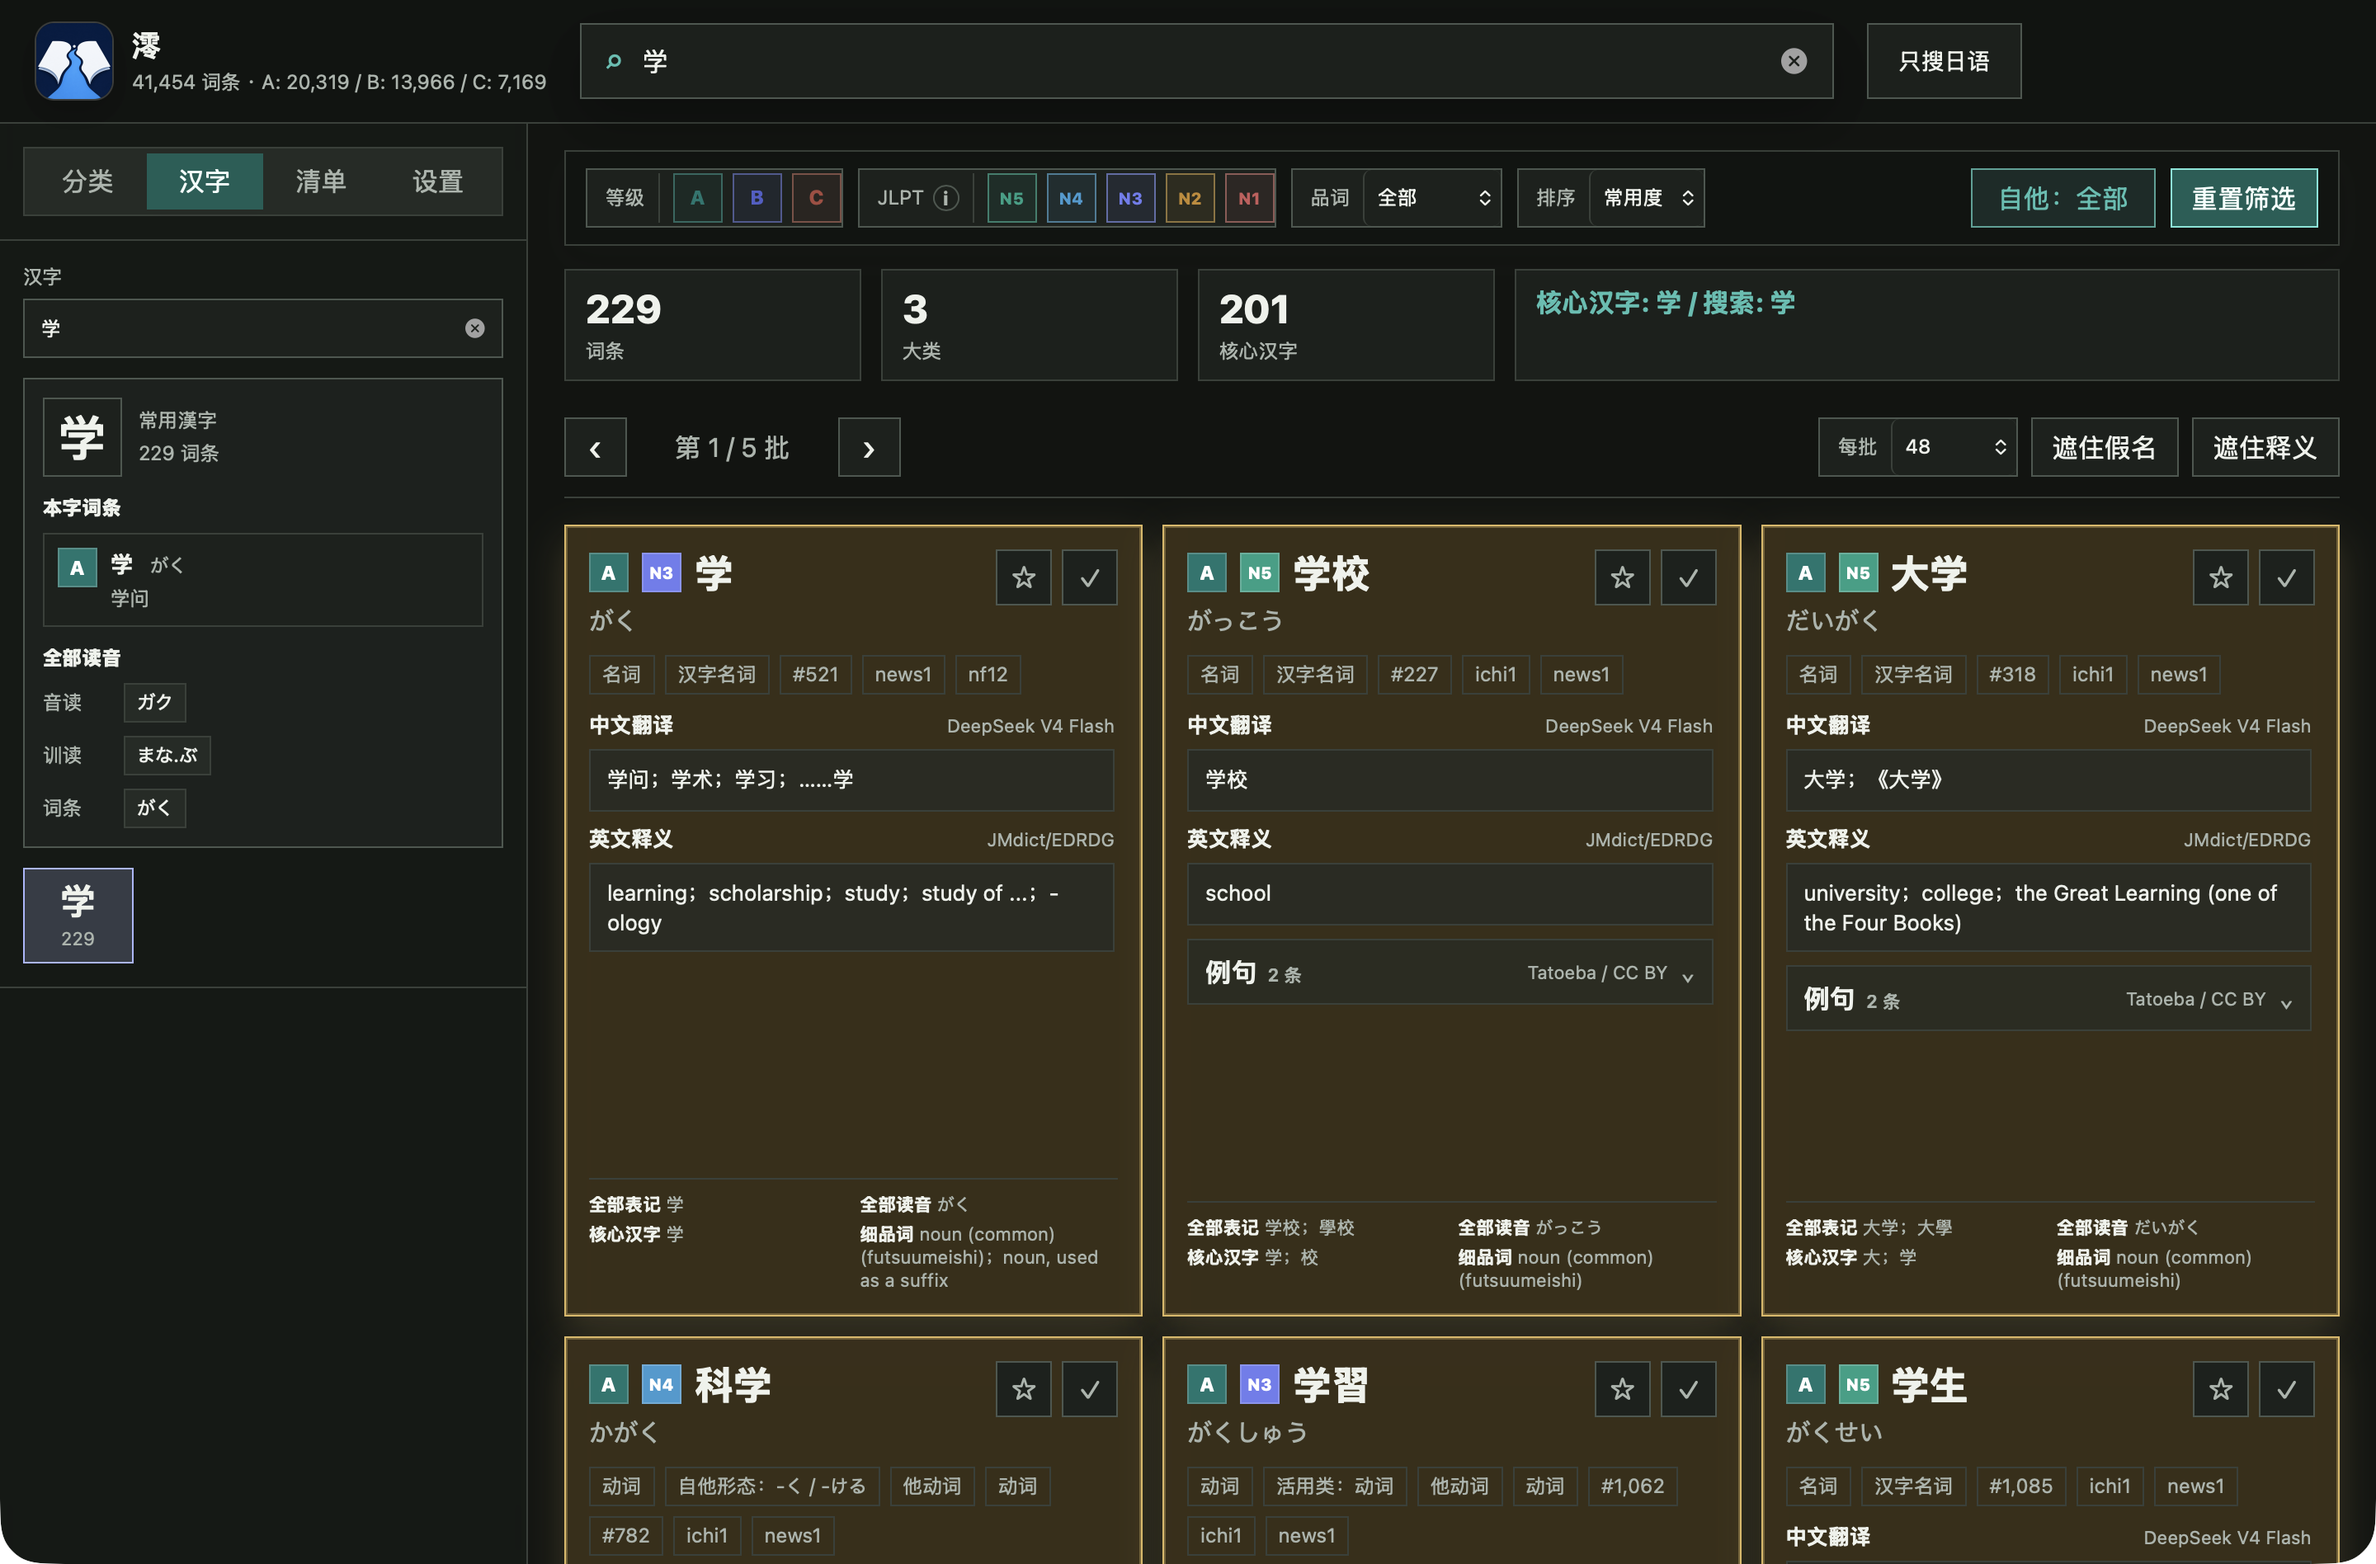
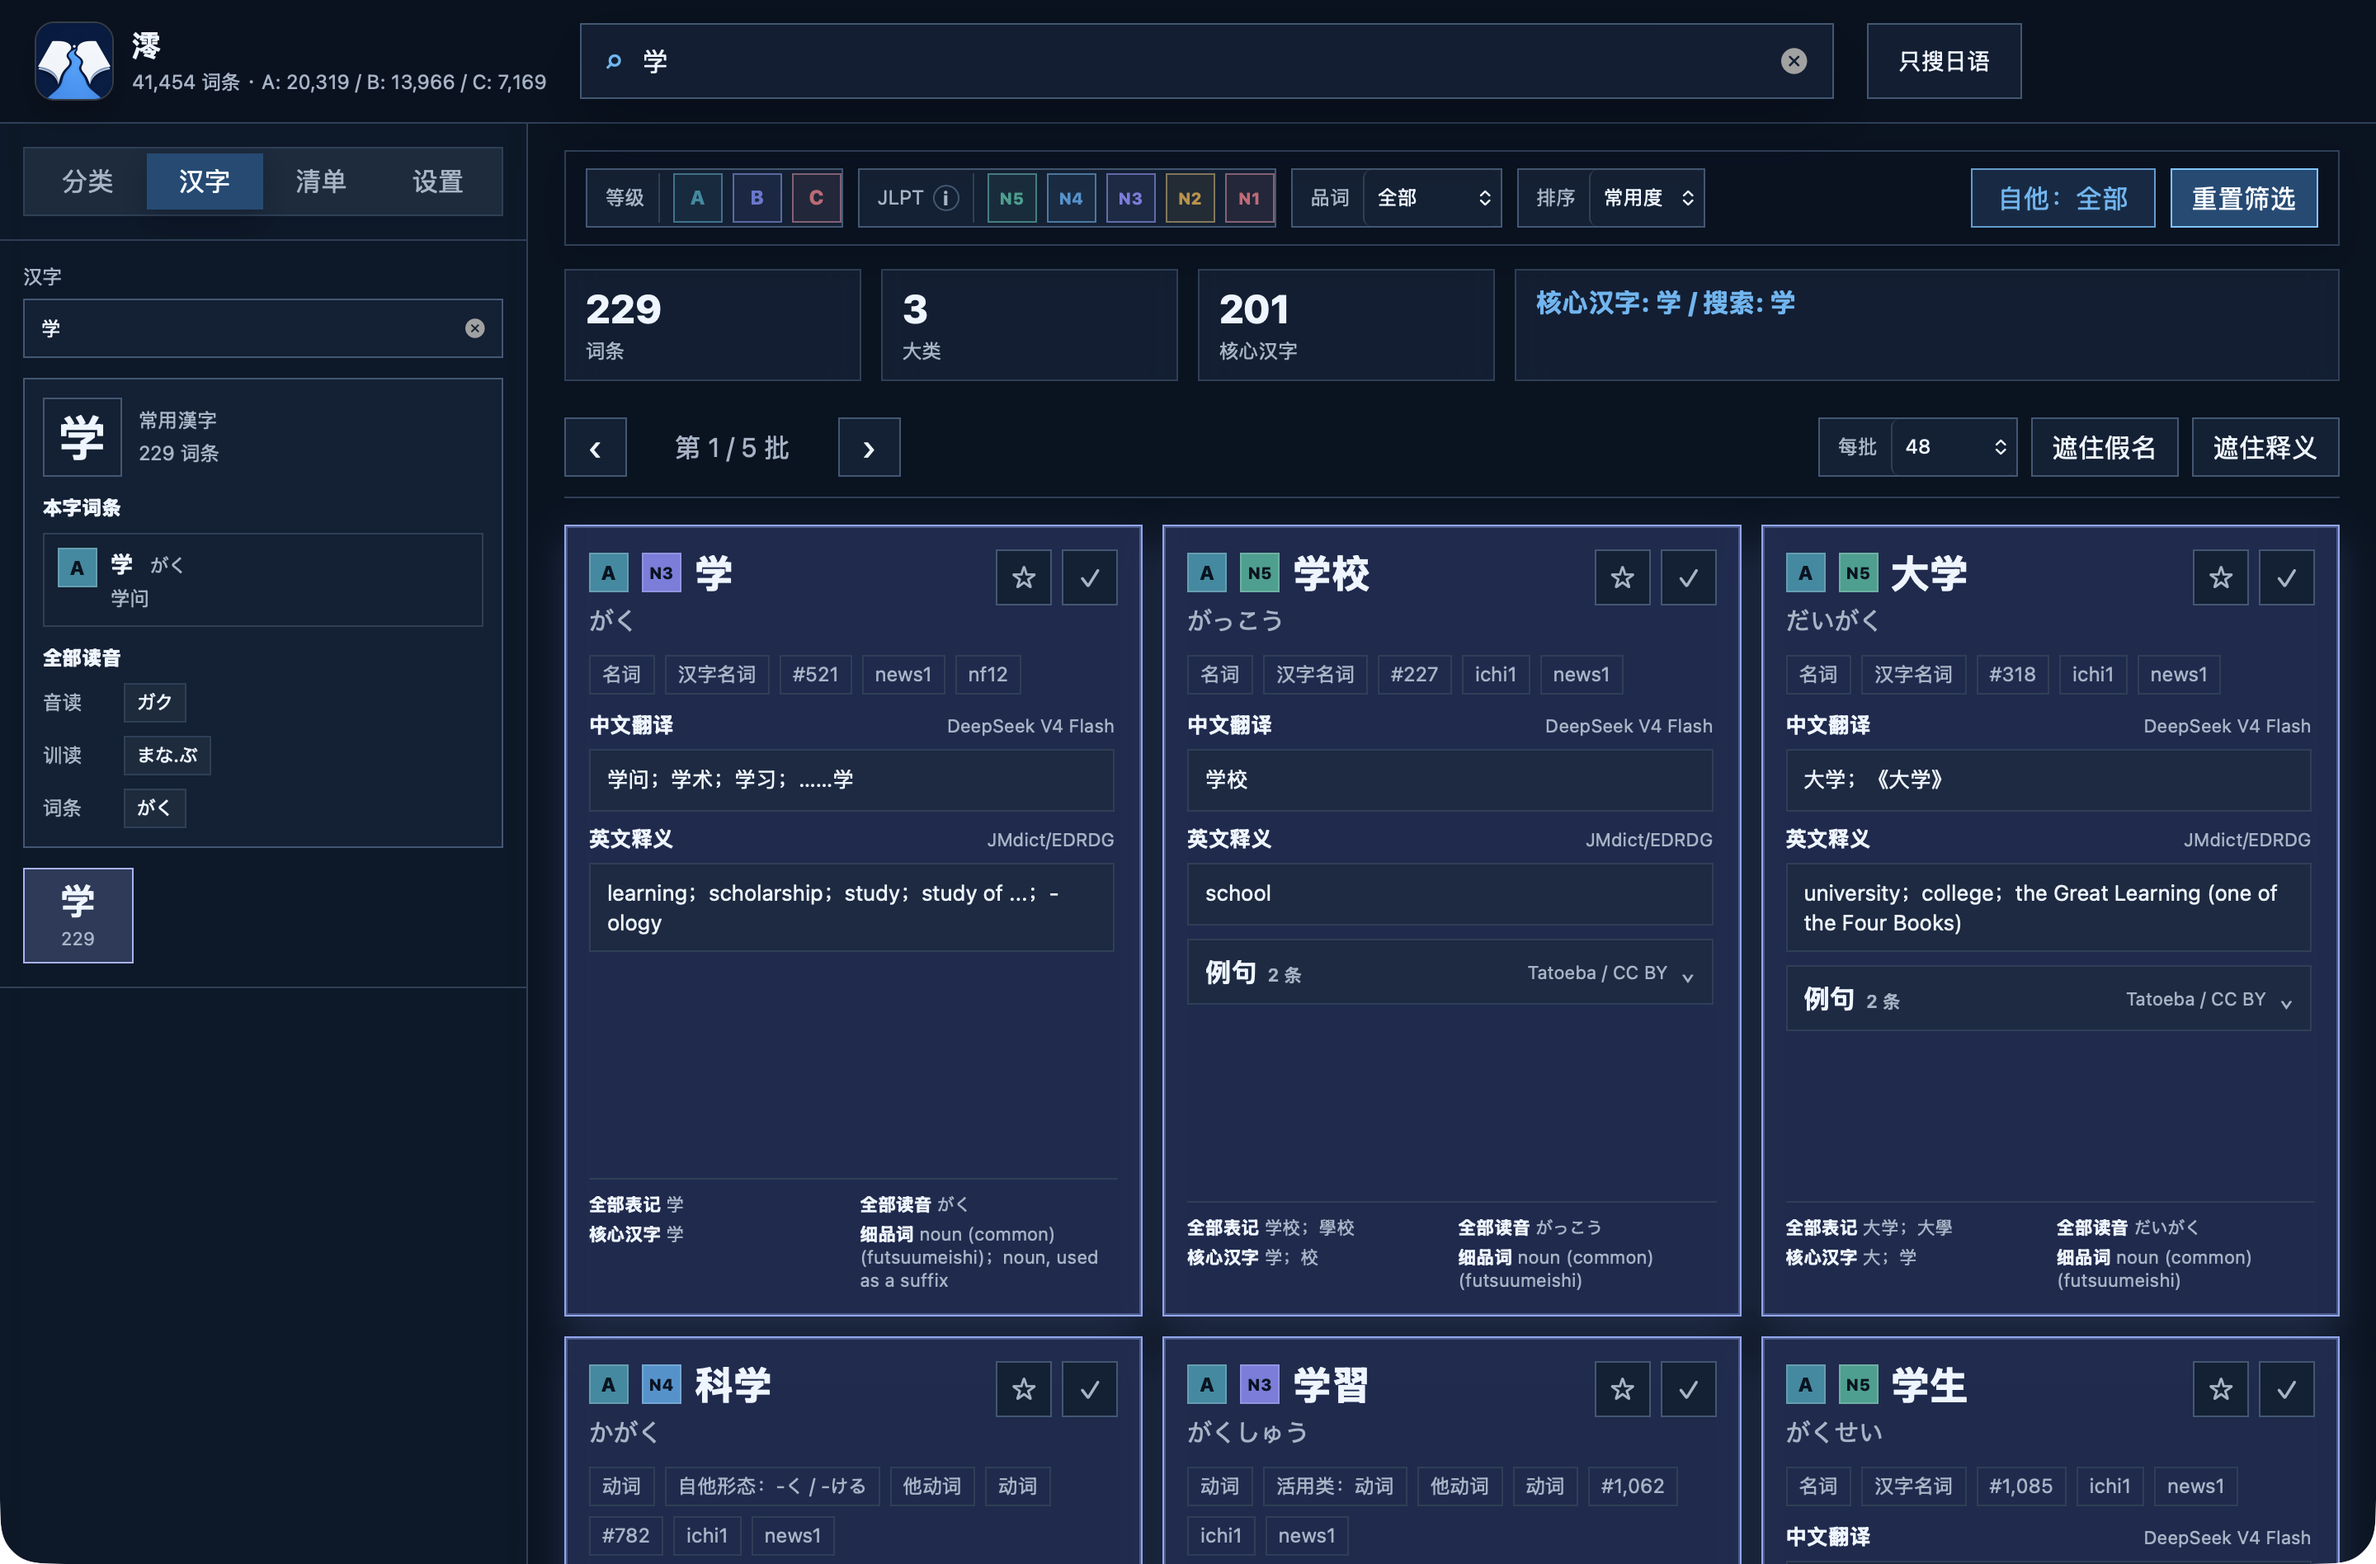
Refresh interface with cool blue themes

diff --git a/outputs/lexicon_app/styles.css b/outputs/lexicon_app/styles.css
@@ -3,76 +3,86 @@
   --custom-bg-image: none;
   --custom-bg-opacity: 0.18;
   --panel-opacity: 0.92;
-  --bg: #f7f7f4;
+  --bg: #edf3fa;
   --surface: #ffffff;
-  --surface-soft: #f1f3ee;
+  --surface-soft: #e8f0f8;
   --surface-panel: rgb(255 255 255 / var(--panel-opacity));
-  --surface-sidebar: rgb(251 251 248 / var(--panel-opacity));
-  --surface-topbar: rgb(247 247 244 / var(--panel-opacity));
-  --ink: #202421;
-  --muted: #66706a;
-  --line: #d9ded6;
-  --line-strong: #c4cabf;
-  --teal: #147c72;
-  --teal-soft: #dcefeb;
-  --active-bg: #dcefeb;
-  --active-ink: #0d514b;
-  --active-border: #147c72;
-  --indigo: #4d5fa8;
-  --coral: #b85f4d;
-  --amber: #9a6a1d;
-  --level-a-bg: #202421;
-  --level-b-bg: #4d5fa8;
-  --level-c-bg: #b85f4d;
+  --surface-sidebar: rgb(244 248 253 / var(--panel-opacity));
+  --surface-topbar: rgb(247 250 254 / var(--panel-opacity));
+  --ink: #14263d;
+  --muted: #61738a;
+  --line: #d2deeb;
+  --line-strong: #b9c9da;
+  --teal: #1978c7;
+  --teal-soft: #dceeff;
+  --active-bg: #d9ebff;
+  --active-ink: #0a4f89;
+  --active-border: #287fc7;
+  --indigo: #5967bb;
+  --coral: #b75564;
+  --amber: #936718;
+  --level-a-bg: #167f96;
+  --level-b-bg: #5368b9;
+  --level-c-bg: #b95867;
   --level-badge-ink: #ffffff;
   --level-badge-border: transparent;
-  --jlpt-n5-bg: #1b7f6a;
-  --jlpt-n4-bg: #2878a8;
-  --jlpt-n3-bg: #5b5aa8;
-  --jlpt-n2-bg: #9a6a1d;
-  --jlpt-n1-bg: #a94444;
+  --jlpt-n5-bg: #198477;
+  --jlpt-n4-bg: #287cb2;
+  --jlpt-n3-bg: #6264b8;
+  --jlpt-n2-bg: #92681f;
+  --jlpt-n1-bg: #a94d5a;
   --badge-size: 24px;
   --filter-badge-size: 30px;
-  --exact-bg: rgb(255 248 222 / var(--panel-opacity));
-  --exact-border: #c58a27;
-  --exact-shadow: rgb(197 138 39 / 0.18);
-  --shadow: 0 10px 30px rgba(32, 36, 33, 0.08);
+  --exact-bg: rgb(235 242 255 / var(--panel-opacity));
+  --exact-border: #6b84cf;
+  --exact-shadow: rgb(72 103 181 / 0.16);
+  --learned-border: #77a9c8;
+  --learned-bg: #e2f1fa;
+  --star-border: #c0a05c;
+  --star-bg: #fff8e8;
+  --control-shadow: 0 5px 16px rgb(21 44 72 / 0.08);
+  --shadow: 0 12px 32px rgb(21 44 72 / 0.1);
 }
 
 :root[data-theme="dark"] {
   color-scheme: dark;
-  --bg: #111411;
-  --surface: #1c211d;
-  --surface-soft: #252b26;
-  --surface-panel: rgb(28 33 29 / var(--panel-opacity));
-  --surface-sidebar: rgb(21 25 22 / var(--panel-opacity));
-  --surface-topbar: rgb(17 20 17 / var(--panel-opacity));
-  --ink: #eef2ec;
-  --muted: #aab4ac;
-  --line: #384039;
-  --line-strong: #4c574f;
-  --teal: #49bfb1;
-  --teal-soft: #163d39;
-  --active-bg: #155e56;
-  --active-ink: #f3fffc;
-  --active-border: #6ee7d8;
-  --indigo: #aab6ff;
-  --coral: #df8d7d;
-  --amber: #deb760;
-  --level-a-bg: #0f766e;
-  --level-b-bg: #515ec7;
-  --level-c-bg: #a84b3f;
-  --level-badge-ink: #ffffff;
+  --bg: #071321;
+  --surface: #102035;
+  --surface-soft: #192b3f;
+  --surface-panel: rgb(16 32 53 / var(--panel-opacity));
+  --surface-sidebar: rgb(10 24 41 / var(--panel-opacity));
+  --surface-topbar: rgb(7 19 33 / var(--panel-opacity));
+  --ink: #edf5ff;
+  --muted: #a4b4c8;
+  --line: #2a4058;
+  --line-strong: #3d5874;
+  --teal: #58b7f4;
+  --teal-soft: #133c60;
+  --active-bg: #174b75;
+  --active-ink: #f5faff;
+  --active-border: #6bc6ff;
+  --indigo: #a6b2ff;
+  --coral: #f08d9a;
+  --amber: #e5c36a;
+  --level-a-bg: #218ba3;
+  --level-b-bg: #6779d2;
+  --level-c-bg: #c66675;
+  --level-badge-ink: #071321;
   --level-badge-border: rgba(255, 255, 255, 0.18);
-  --jlpt-n5-bg: #16a085;
-  --jlpt-n4-bg: #3b9bd1;
-  --jlpt-n3-bg: #6f7df0;
-  --jlpt-n2-bg: #c48a2c;
-  --jlpt-n1-bg: #c95b5b;
-  --exact-bg: rgb(61 48 25 / var(--panel-opacity));
-  --exact-border: #deb760;
-  --exact-shadow: rgb(222 183 96 / 0.2);
-  --shadow: 0 12px 34px rgba(0, 0, 0, 0.28);
+  --jlpt-n5-bg: #20a18f;
+  --jlpt-n4-bg: #3e94cf;
+  --jlpt-n3-bg: #7a7de0;
+  --jlpt-n2-bg: #bf913e;
+  --jlpt-n1-bg: #cb6674;
+  --exact-bg: rgb(31 45 83 / var(--panel-opacity));
+  --exact-border: #8ea7f4;
+  --exact-shadow: rgb(104 131 216 / 0.24);
+  --learned-border: #4f8daf;
+  --learned-bg: #17354d;
+  --star-border: #b39555;
+  --star-bg: #3b321f;
+  --control-shadow: 0 6px 18px rgb(0 7 18 / 0.26);
+  --shadow: 0 14px 38px rgb(0 6 16 / 0.38);
 }
 
 * {
@@ -259,7 +269,7 @@ button {
 .segment.active {
   background: var(--active-bg);
   color: var(--active-ink);
-  box-shadow: 0 1px 8px rgba(32, 36, 33, 0.08);
+  box-shadow: var(--control-shadow);
 }
 
 .filters {
@@ -634,7 +644,7 @@ button {
   margin: -2px 0 14px;
   border: 1px solid var(--line);
   background: var(--surface-topbar);
-  box-shadow: 0 8px 22px rgba(32, 36, 33, 0.08);
+  box-shadow: var(--control-shadow);
   backdrop-filter: blur(16px);
   padding: 10px 12px;
 }
@@ -978,12 +988,12 @@ button {
 }
 
 .entry-card.learned {
-  border-color: #9cc5bb;
-  background: color-mix(in srgb, var(--teal-soft) 25%, var(--surface-panel));
+  border-color: var(--learned-border);
+  background: color-mix(in srgb, var(--learned-bg) 55%, var(--surface-panel));
 }
 
 .entry-card.starred {
-  border-color: #d7b774;
+  border-color: var(--star-border);
 }
 
 .entry-card.exact-match {
@@ -1126,14 +1136,14 @@ button {
 }
 
 .mark-button.active[data-action="star"] {
-  border-color: #d6a93c;
-  background: #fff6d8;
+  border-color: var(--star-border);
+  background: var(--star-bg);
   color: var(--amber);
 }
 
 .mark-button.active[data-action="learned"] {
-  border-color: #86b9a8;
-  background: #e2f3ed;
+  border-color: var(--learned-border);
+  background: var(--learned-bg);
   color: var(--teal);
 }
 

diff --git a/outputs/lexicon_app/index.html b/outputs/lexicon_app/index.html
@@ -3,11 +3,11 @@
   <head>
     <meta charset="utf-8" />
     <meta name="viewport" content="width=device-width, initial-scale=1" />
-    <meta name="theme-color" content="#071b36" />
+    <meta name="theme-color" content="#071321" />
     <title>澪</title>
     <link rel="icon" type="image/png" href="./assets/mio-jisho-icon.png" />
     <link rel="apple-touch-icon" href="./assets/mio-jisho-icon.png" />
-    <link rel="stylesheet" href="./styles.css?v=20260703-safe-actions-layout-1" />
+    <link rel="stylesheet" href="./styles.css?v=20260730-cool-blue-theme-2" />
   </head>
   <body>
     <div class="app-shell">
